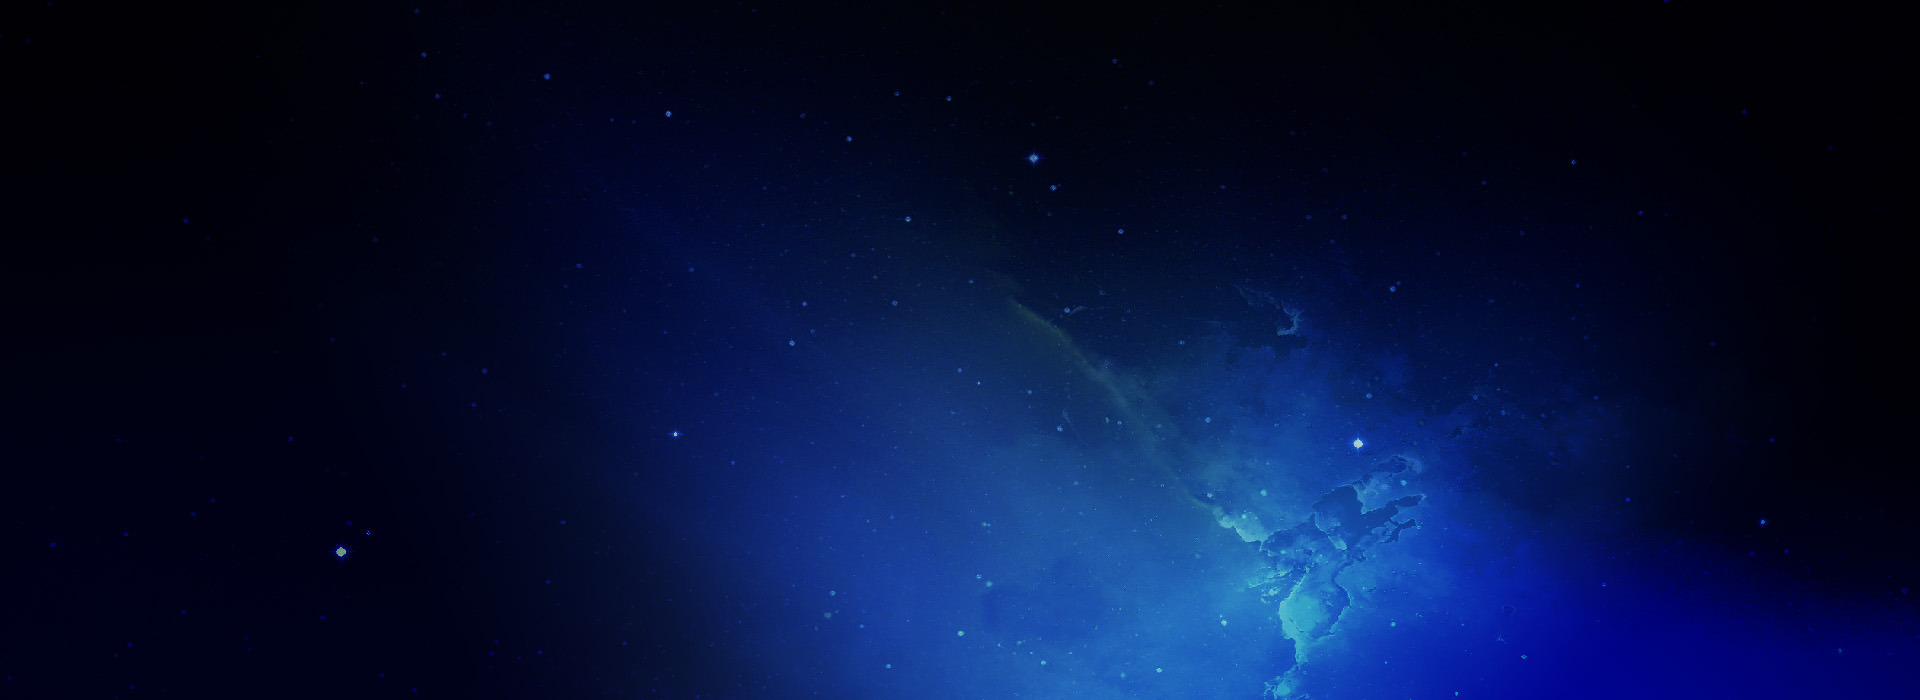
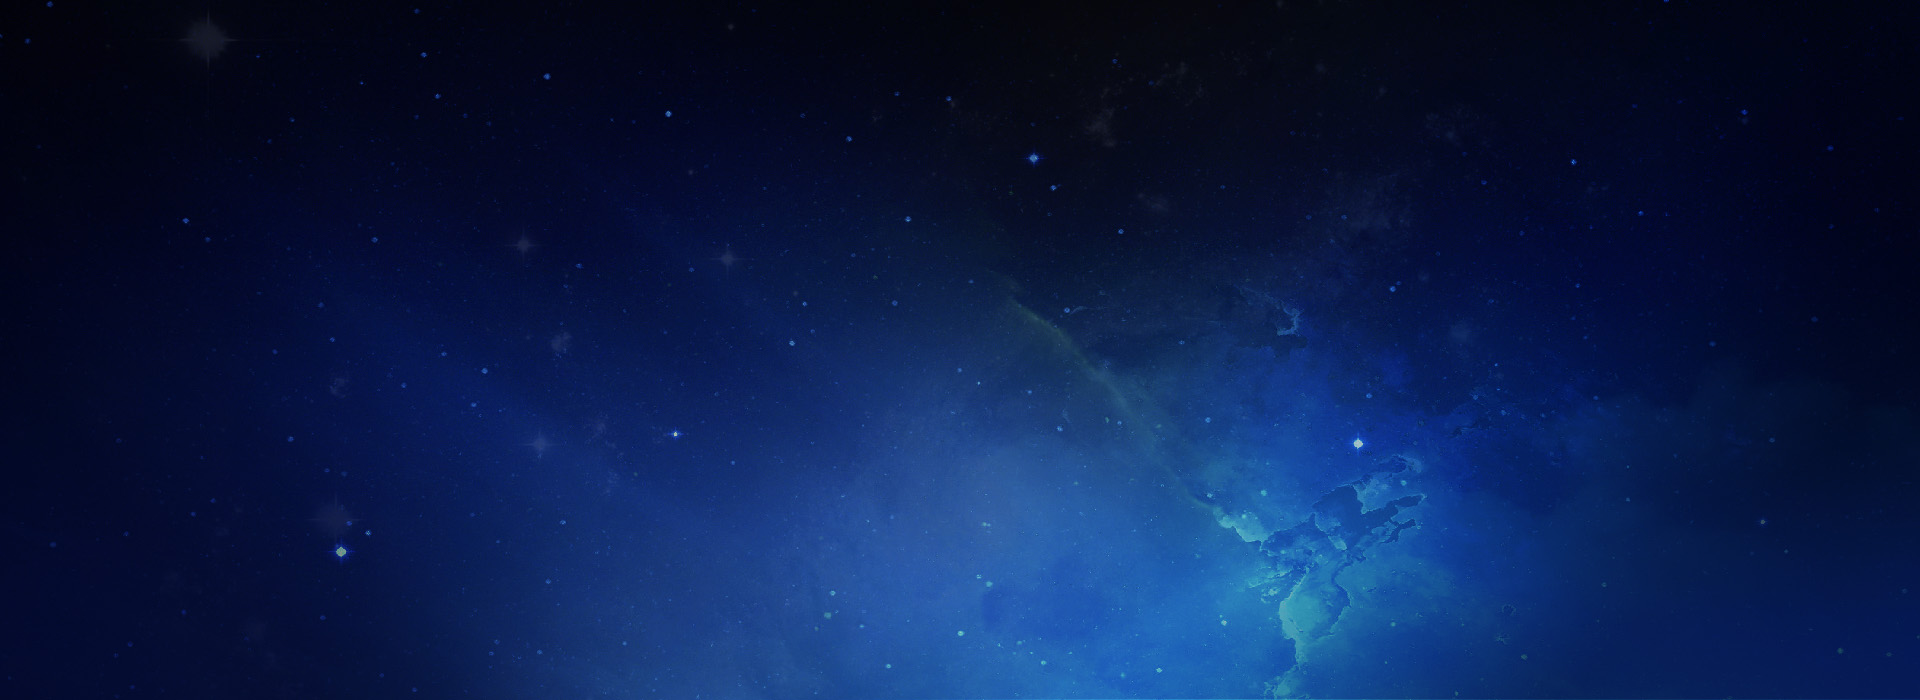
Update Nebula Theme

diff --git a/themes/Nebula/Nebula/css/page.css b/themes/Nebula/Nebula/css/page.css
@@ -40,6 +40,7 @@
 }
 #home_carousel .carousel-caption h3 {
     margin-bottom: 30px;
+    text-transform: uppercase;
 }
 
 #home_carousel .carousel-caption p {
@@ -65,8 +66,14 @@
     font-weight: 600;
 }
 
+#support {
+    background: url(../../assets/images/bg04.jpg) fixed;
+    background-size: cover;
+    height: 600px;
+}
+
 #home_parallax {
-    background: url(../../assets/images/bg03.jpg) fixed;
+    background: url(../../assets/images/bg02.jpg) fixed;
     background-size: cover;
     height: 750px;
 }
@@ -79,40 +86,77 @@
     margin: auto;
 }
 .row.home_feature {
-    background: url(../../assets/images/home_block_bg.jpg) center bottom;
-    height: 500px;
 }
 
-#store > div:first-child h3, #home_parallax h3, .home_feature h3 {
+#support .support {
+    max-width: 750px;
+    margin: 0 auto;
+    text-align: center;
+}
+
+#support h3 {
+    color: #fff;
+}
+
+#support h4 {
+    display: block;
+    color: #fff;
+    background-color: #393d50;
+    padding: 15px;
+    text-transform: uppercase;
+    font-weight: 300;
+    font-size: 35px;
+}
+
+#support p {
+    text-align: center;
+    max-width: 750px;
+    margin: 50px auto;
+    color: #99a9b5;
+    font-size: 21px;
+    font-weight: 300;
+    line-height: 25px;
+}
+
+#store > div:first-child h3, #home_parallax h3, .home_feature h3, #support h3, #latest h3, #showcase h3 {
     font-size: 50px;
     font-weight: 600;
+    text-transform: uppercase;
 }
 
-#home_parallax p, .home_feature p {
-    font: 18px/17px 'Ubuntu', Helvetica, Arial, sans-serif;
-    font-weight: 400;
+#latest p {
+    display: block;
+    margin-bottom: 20px;
+}
+
+#showcase > div:first-child {
+    width: 45%;
+}
+
+#showcase {
+    height: 700px;
+    overflow: hidden;
+}
+
+#showcase:after {
+    background: url(../../assets/images/theme9.jpg) center top;
+    display: block;
+    width: 100%;
+    position: absolute;
+    z-index: -1;
+    clear: none;
+    height: 700px;
+    left: 0;
+}
+
+#home_parallax p, .home_feature p, #showcase p {
+    font: 23px/40px 'Ubuntu', Helvetica, Arial, sans-serif;
+    font-weight: 300;
     display: block;
     width: 80%;
-    margin: 22px auto;
+    margin: 40px auto 0;
 }
 
-#store > div:first-child {
+#showcase p {
     width: 100%;
-}
-
-#store {
-    padding-right: 25%;
-}
-
-#store div {
-    text-align: left !important;
-}
-
-#store:before {
-    position: absolute;
-    background: url(../../assets/images/store.png) center bottom no-repeat;
-    height: 750px;
-    width: 100%;
-    margin: auto;
-    margin-left: -20%;
 }

diff --git a/themes/Nebula/styles.css b/themes/Nebula/styles.css
@@ -153,8 +153,23 @@ header h1 {
 }
 
 .nebulaContentTop, .nebulaFooter {
-    background: #1e2024;
+    background: #212331;
     padding: 5% 0;
+    color: #99a9b5;
+}
+
+.nebulaFooter h4 {
+    text-transform: uppercase;
+    font-weight: 600;
+    color: #fff;
+    margin-bottom: 45px;
+}
+
+.nebulaCopyright {
+    background: #181828;
+    color: #99a9b5;
+    padding: 40px 0;
+    border-top: 1px solid #313646;
 }
 
 .nebulaCanvas {

diff --git a/themes/Nebula/Nebula/Layouts/MainFrame.php b/themes/Nebula/Nebula/Layouts/MainFrame.php
@@ -11,7 +11,7 @@ class MainFrame extends NebulaTheme {
             $this->NebulaHeader();
             add_to_footer("<script src='".THEME."assets/js/jquery.nicescroll.min.js'></script>");
             add_to_footer("<script src='".THEME."assets/js/wow.min.js'></script>");
-            add_to_jquery("
+            /* add_to_jquery("
             $('html').niceScroll({
                 touchbehavior: false,
                 cursorborder: 'none',
@@ -19,7 +19,7 @@ class MainFrame extends NebulaTheme {
                 background: '#666',
                 zindex: '999'
             });
-            ");
+            "); */
         }
 
         $this->NebulaBody();
@@ -155,13 +155,9 @@ class MainFrame extends NebulaTheme {
         ?>
         <section class="nebulaFooter">
             <div class="container">
-                <h4 class="text-white">Designed with <i class="fa fa-heart-o"></i> on PHP-Fusion 9</h4>
-
                 <div class="row">
                     <div class="col-xs-12 col-sm-3">
-                        <h4 class="text-white">Nebula Theme by <a href='https://www.php-fusion.co.uk/profile.php?lookup=16331' target='_blank'>PHP-Fusion
-                                Inc</a></h4>
-
+                        <h4>About Us</h4>
                         <p>
                             <?php echo fusion_get_settings('description') ?>
                         </p>
@@ -179,7 +175,19 @@ class MainFrame extends NebulaTheme {
 
                     </div>
                 </div>
+
+
                 <a href="#top" class="pull-right"><i class="fa fa-chevron-up fa-3x"></i></a>
+
+
+            </div>
+        </section>
+        <section class="nebulaCopyright">
+            <div class="container">
+                <div class="col-xs-12 col-sm-4">
+                    <h4 class="text-white">Nebula Theme by <a href='https://www.php-fusion.co.uk/profile.php?lookup=16331' target='_blank'>PHP-Fusion
+                            Inc</a></h4>
+                </div>
 
                 <p>
                     <?php
